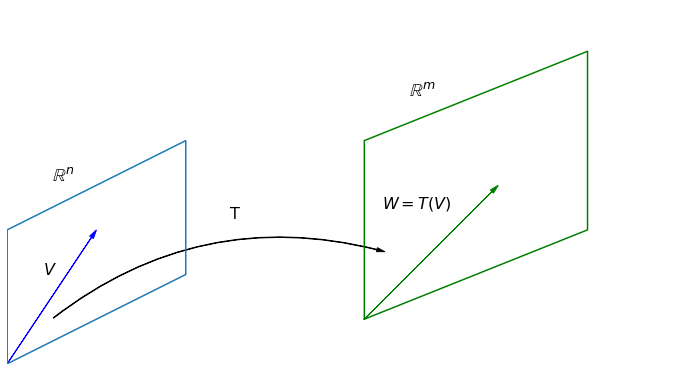
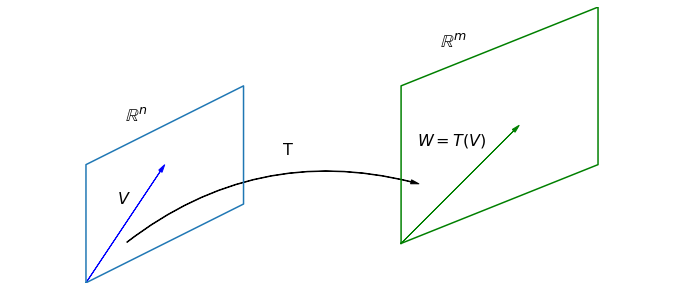
Span graphic added

diff --git a/img_src/Span.py b/img_src/Span.py
@@ -1,0 +1,82 @@
+# -*- coding: utf-8 -*-
+"""
+Created on Mon Apr 19 15:19:52 2021
+
+Visualization of span
+
+@author: Ben Vanderlei
+"""
+import numpy as np
+
+import matplotlib.pyplot as plt
+from mpl_toolkits.mplot3d.proj3d import proj_transform
+from mpl_toolkits.mplot3d.axes3d import Axes3D
+
+from matplotlib.patches import FancyArrowPatch
+
+class Arrow3D(FancyArrowPatch):
+
+    def __init__(self, x, y, z, dx, dy, dz, *args, **kwargs):
+        super().__init__((0, 0), (0, 0), *args, **kwargs)
+        self._xyz = (x, y, z)
+        self._dxdydz = (dx, dy, dz)
+
+    def draw(self, renderer):
+        x1, y1, z1 = self._xyz
+        dx, dy, dz = self._dxdydz
+        x2, y2, z2 = (x1 + dx, y1 + dy, z1 + dz)
+
+        xs, ys, zs = proj_transform((x1, x2), (y1, y2), (z1, z2), self.axes.M)
+        self.set_positions((xs[0], ys[0]), (xs[1], ys[1]))
+        super().draw(renderer)
+        
+def _arrow3D(ax, x, y, z, dx, dy, dz, *args, **kwargs):
+    '''Add an 3d arrow to an `Axes3D` instance.'''
+
+    arrow = Arrow3D(x, y, z, dx, dy, dz, *args, **kwargs)
+    ax.add_artist(arrow)
+
+
+setattr(Axes3D, 'arrow3D', _arrow3D)
+
+fig = plt.figure()
+ax = fig.add_subplot(111, projection='3d')
+ax.set_xlim(0,6)
+ax.grid(False)
+
+xx, yy = np.meshgrid(range(6), range(6))
+z = (4*xx + 6*yy)/9 
+
+ax.plot_surface(xx, yy, z, alpha=0.5)
+
+options = dict(arrowstyle="Simple, tail_width=0.5, head_width=4, head_length=8", 
+               color = 'k')
+
+ax.arrow3D(0,0,0,0,3,2,**options)
+ax.arrow3D(0,0,0,3,4,4,**options)
+ax.arrow3D(0,0,0,3,1,2,**options)
+
+ax.text(0.2,5,8/3,"Span",(3,2,0),size="x-large")
+ax.text2D(0.1,0.2,"The span of a set of vectors in $\mathbb{R}^3$ may form a plane.",
+          transform=ax.transAxes)
+
+# No ticks
+ax.set_xticks([]) 
+ax.set_yticks([]) 
+ax.set_zticks([])
+
+# Make panes transparent
+# ax.xaxis.pane.fill = False # Left pane
+# ax.yaxis.pane.fill = False # Right pane
+
+# Transparent spines
+ax.w_xaxis.line.set_color((1.0, 1.0, 1.0, 0.0))
+ax.w_yaxis.line.set_color((1.0, 1.0, 1.0, 0.0))
+ax.w_zaxis.line.set_color((1.0, 1.0, 1.0, 0.0))
+
+# Transparent panes
+ax.w_xaxis.set_pane_color((1.0, 1.0, 1.0, 0.0))
+ax.w_yaxis.set_pane_color((1.0, 1.0, 1.0, 0.0))
+
+fig.set_figheight(8)
+fig.set_figwidth(12)

diff --git a/img_src/GenericTransformation.py b/img_src/GenericTransformation.py
@@ -31,8 +31,8 @@ T = patches.FancyArrowPatch((1,1),(8.5,2.5),connectionstyle='arc3,rad=-0.25',
                             **options)
 ax.add_patch(T)
 
-ax.set_xlim(0,15)
-ax.set_ylim(0,8)
+ax.set_xlim(-2,15)
+ax.set_ylim(0,7)
 ax.set_aspect('equal')
 ax.set_xticks([])
 ax.set_yticks([])
